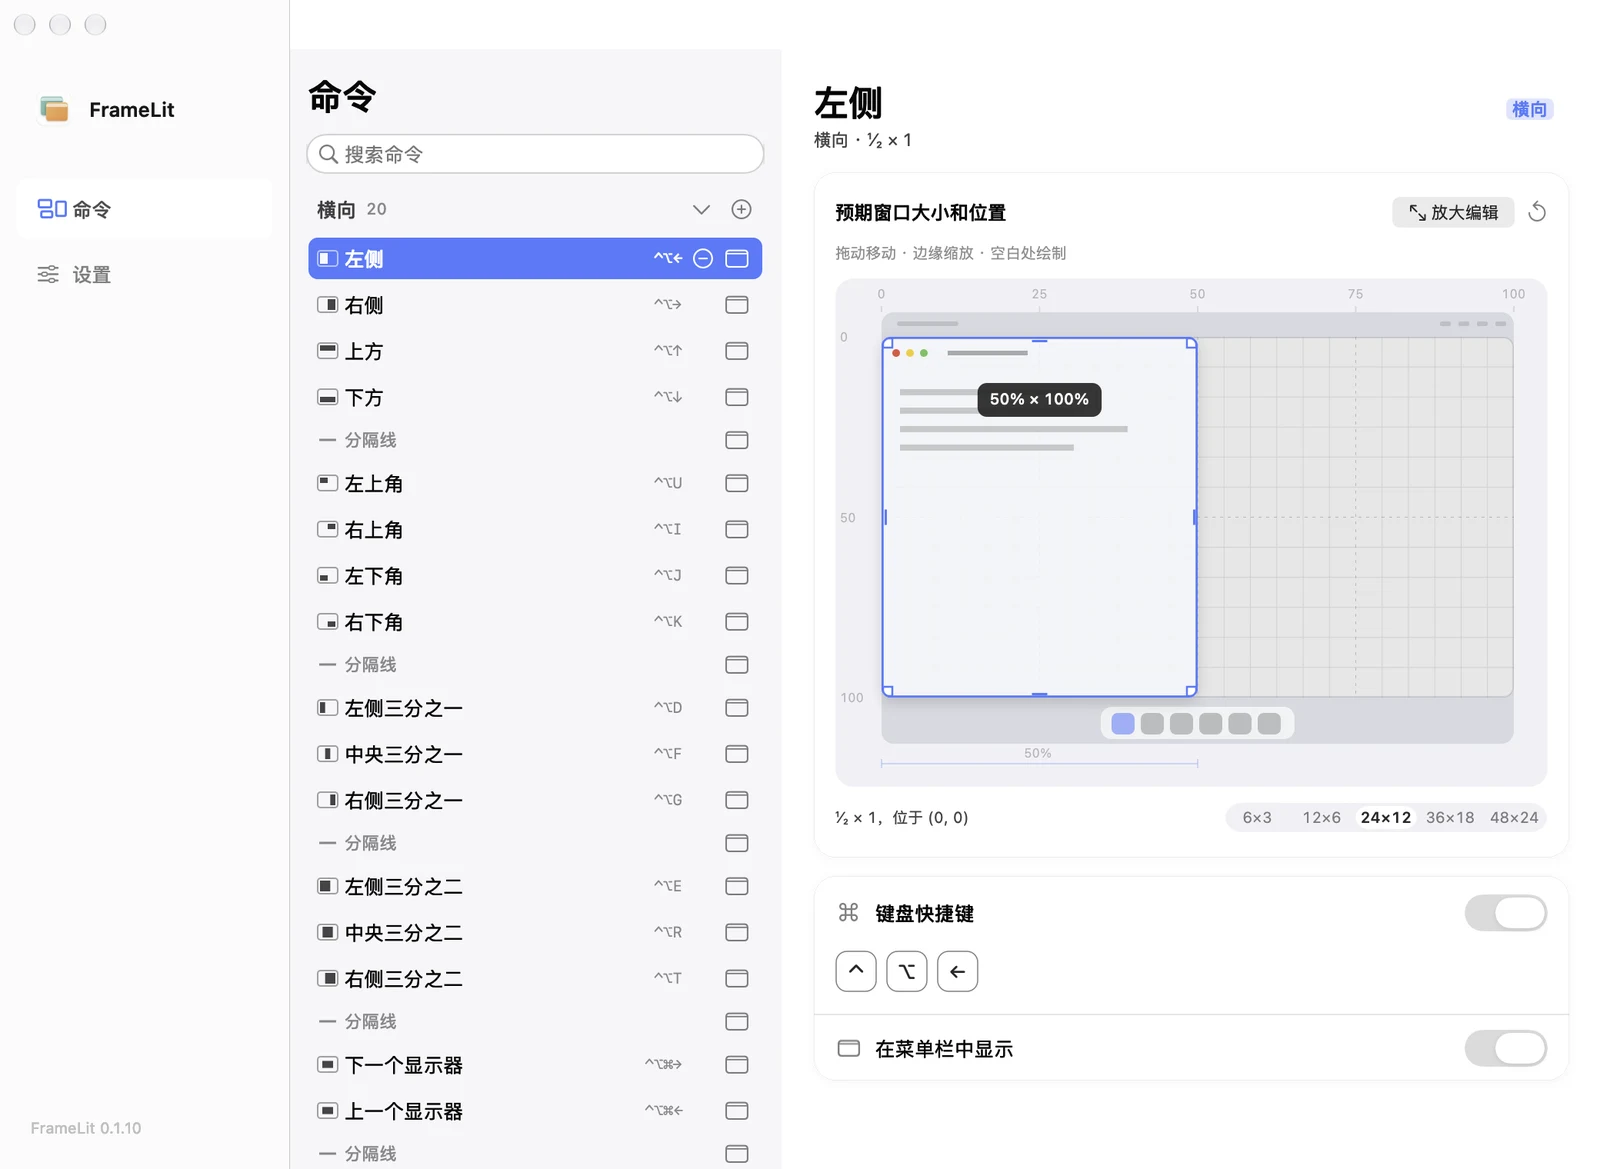
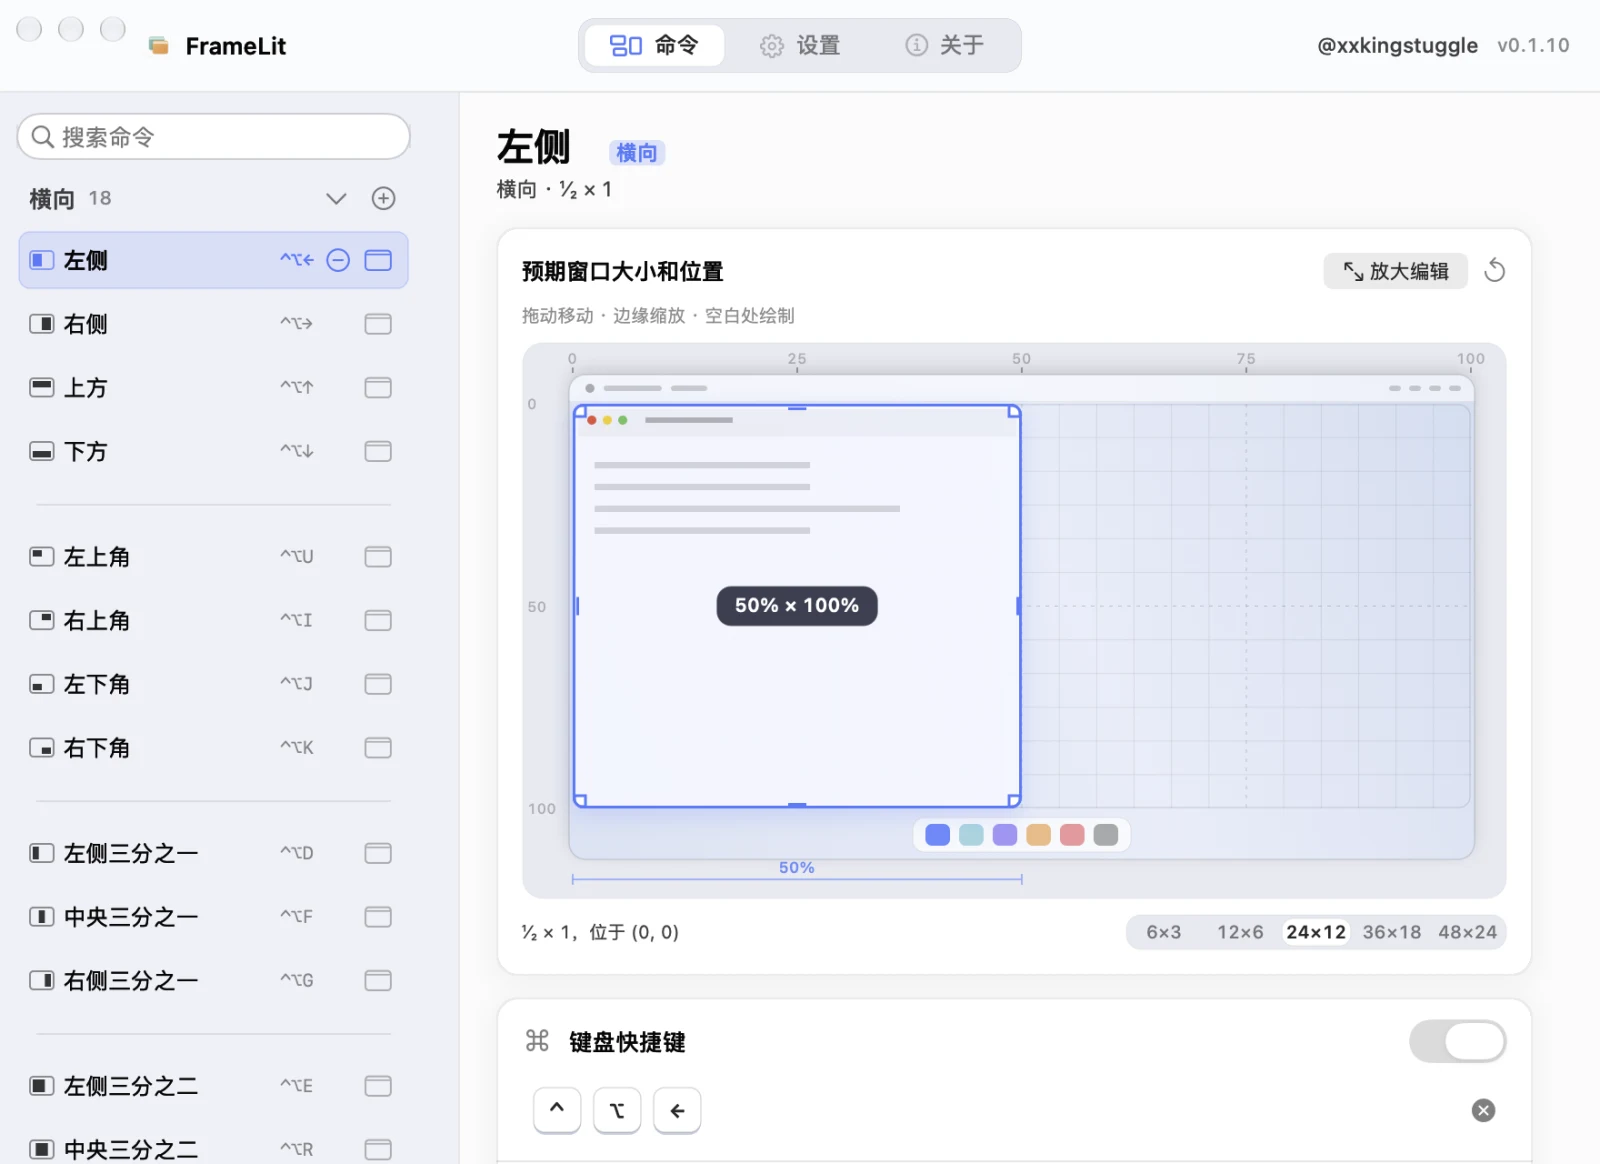
chore(media): refresh FrameLit screenshots after Settings UI redesign

diff --git a/src/content/blog/framelit-macos-window-manager.md b/src/content/blog/framelit-macos-window-manager.md
@@ -30,7 +30,7 @@ cover: ../../assets/projects/framelit-cover.png
 这下尺寸倒是拉大了，可窗口停下来的位置却莫名其妙往旁边歪了好几个像素，没能严丝合缝地贴齐屏幕边缘。
 
 <figure class="case-study-figure">
-  <img src="/media/framelit/commands-dark.webp" alt="FrameLit 深色模式下的窗口布局指令与自定义网格画布" width="1600" height="1369" loading="lazy" decoding="async" />
+  <img src="/media/framelit/commands-dark.webp" alt="FrameLit 深色模式下的窗口布局指令与自定义网格画布" width="1600" height="1164" loading="lazy" decoding="async" />
   <figcaption>图 1 · FrameLit 深色模式主界面，左侧管理分屏指令与全局快捷键，右侧在 Custom Layout Canvas 上拖拽定义任意网格比例。</figcaption>
 </figure>
 
@@ -69,7 +69,7 @@ $$x = \frac{c_1}{W_{\text{grid}}}, \quad y = \frac{r_1}{H_{\text{grid}}}, \quad 
 这样做的好处是，不管我当前窗口是在 13 寸的笔记本内屏，还是在 27 寸的 4K 外接大屏上，按下同一个快捷键的瞬间，引擎直接拿这套归一化比例乘上当前屏幕的 `visibleFrame`，就能在任何分辨率的显示器上分毫不差地复刻出同一套版式。
 
 <figure class="case-study-figure">
-  <img src="/media/framelit/prefs-dark.webp" alt="FrameLit 偏好设置与安全区边界控制面板" width="1600" height="1369" loading="lazy" decoding="async" />
+  <img src="/media/framelit/prefs-dark.webp" alt="FrameLit 偏好设置与安全区边界控制面板" width="1600" height="1164" loading="lazy" decoding="async" />
   <figcaption>图 2 · FrameLit 偏好设置面板，管理边缘拖拽触发区、多屏投送策略、排除应用列表与异步诊断日志。</figcaption>
 </figure>
 
